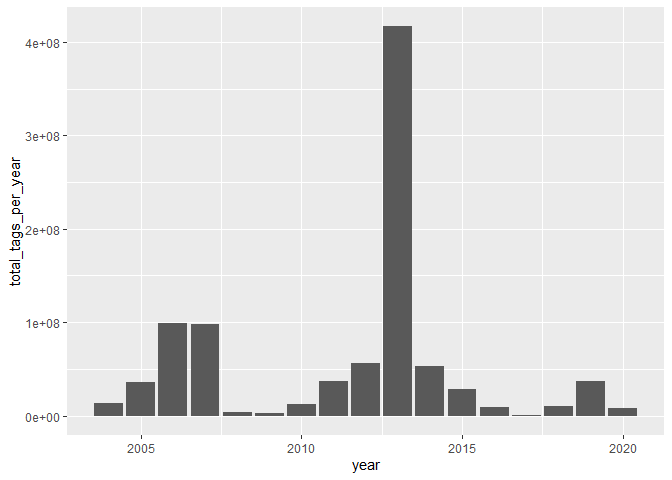
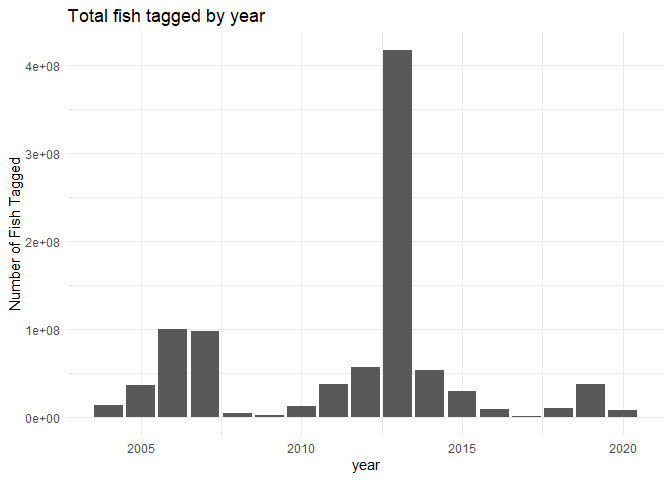
Edits hallpring plots

diff --git a/scripts/adult-upstream-passage-monitoring/feather-river/feather-hallprint.md b/scripts/adult-upstream-passage-monitoring/feather-river/feather-hallprint.md
@@ -18,13 +18,13 @@ are issues with the return data.
 
 **Season:** Tagging typically begins in April and goes through June
 
-**Completeness of Record throughout timeframe:**
+**Provisional or QC data** Data is QC
 
 **Sampling Location:** Some tags have a acoustic location attribute.
 
 **Data Contact:** [Byron Mache](mailto:Byron.Mache@water.ca.gov)
 
-Each fish is given two tags. The `second_tag_number` is na if the first
+Each fish is given two tags. The `second_tag_number` is NA if the first
 tag and the second tag have the same number.
 
 ## Access Cloud Data
@@ -70,8 +70,6 @@ raw_hallprint_data <- read_excel("raw_feather_hallprint_data.xlsx",
 ## Data transformations
 
 ``` r
-# TODO turn NA into second tag number 
-# For different excel sheets for each year read in and combine years here
 cleaner_hallprint_data <- raw_hallprint_data %>% 
   rename("date" = Date, "tag_number" = `Tag#`, "second_tag_number" = `2ndTag#`, 
          "color" = Color, "acoustic" = Acoustic, 
@@ -92,7 +90,7 @@ cleaner_hallprint_data <- raw_hallprint_data %>%
 
 ## Explore Numeric Variables:
 
-No numeric variables
+No numeric variables.
 
 ``` r
 # Filter clean data to show only numeric variables 
@@ -136,9 +134,9 @@ There are no NA values in `ID`.
 
 ### Variable: `tag_number`
 
-Are all the tags unique? No it looks like in more recent years they
-start to be unique and we have less NA values but there are 8 years
-where tags are not unique.
+Are all the tags unique? No. In more recent years tag numbera start to
+be unique and we have less NA values but there are 8 years where tags
+are not unique.
 
 ``` r
 cleaner_hallprint_data %>% 
@@ -171,35 +169,39 @@ cleaner_hallprint_data %>%
     ## 17  2020              2748        2748       0 TRUE
 
 ``` r
-# TODO visualize count by year 
 cleaner_hallprint_data %>% 
   group_by(year = year(date)) %>%
   mutate(total_tags_per_year = sum(!is.na(tag_number))) %>% 
   ungroup() %>% 
   ggplot(aes(x = year, y = total_tags_per_year)) +
-  geom_col()
+  geom_col() + 
+  theme_minimal() + 
+  labs(title = "Total fish tagged by year",
+       y = "Number of Fish Tagged")  
 ```
 
 ![](feather-hallprint_files/figure-gfm/unnamed-chunk-9-1.png)<!-- -->
 
-Numbers of fish tagged are not even over the period of record.
+More fish were tagged in 2013 than any other year. Numbers of fish
+tagged are not even over the period of record.
 
 ``` r
+# TODO Could also do a visual of when in the year this is happening (tags by month) - facet on year (some portion of years or average over years)
 cleaner_hallprint_data %>% 
   group_by(month = month(date)) %>%
-  mutate(total_tags_per_month = mean(sum(!is.na(tag_number)))) %>% 
+  mutate(total_tags_per_month = sum(!is.na(tag_number))) %>% 
   ungroup() %>% 
   ggplot(aes(x = month, y = total_tags_per_month)) +
-  geom_col()
+  geom_col() + 
+  facet_wrap(~year(date)) +  
+  theme_minimal() + 
+  labs(title = "Tags by month",
+       y = "Number of Fish Tagged")  
 ```
 
 ![](feather-hallprint_files/figure-gfm/unnamed-chunk-10-1.png)<!-- -->
 
-``` r
-# Could also do a visual of when in the year this is happening (tags by month) - facet on year (some portion of years or average over years)
-```
-
-It appears that most of the tagging occurs in May and June.
+Generally tagging occurs in May and June.
 
 **NA and Unknown Values**
 
@@ -249,6 +251,13 @@ cleaner_hallprint_data %>%
 **NA and Unknown Values** \* 0.516 % of values in the
 `second_tag_number` column are NA. Byron shared that if the `tag_number`
 equals the `second_tag_number` they leave `second_tag_number` as NA.
+
+``` r
+# Replace 2nd tag number with first tag number if second tag number is NA
+cleaner_hallprint_data$second_tag_number <- if_else(is.na(cleaner_hallprint_data$second_tag_number), 
+                                                    cleaner_hallprint_data$tag_number, 
+                                                    cleaner_hallprint_data$second_tag_number)
+```
 
 ### Variable: `color`
 
@@ -308,9 +317,8 @@ table(cleaner_hallprint_data$acoustic)
 
 **NA and Unknown Values**
 
--   0.997 % of values in the `acoustic` column are NA.
-
-### Variable: `acoustic_location`
+-   0.997 % of values in the `acoustic` column are NA. \#\#\# Variable:
+    `acoustic_location`
 
 ``` r
 table(cleaner_hallprint_data$acoustic_location) 
@@ -332,9 +340,24 @@ table(cleaner_hallprint_data$acoustic_location)
 
 -   0.997 % of values in the `acoustic_location` column are NA.
 
-**Summary of identified issues:** TODO fill in this section
+**Summary of identified issues:** \* One identified issue is that not
+all `tags_numbers` or `second_tag_numbers` are unique.
 
 ### Save cleaned data back to google cloud
+
+``` r
+cleaner_hallprint_data %>% glimpse()
+```
+
+    ## Rows: 98,935
+    ## Columns: 7
+    ## $ ID                <chr> "98802", "98803", "98804", "98805", "98806", "98807"~
+    ## $ date              <date> 2020-05-06, 2020-05-06, 2020-05-06, 2020-05-06, 202~
+    ## $ tag_number        <chr> "25703", "25704", "25705", "25707", "25708", "25709"~
+    ## $ second_tag_number <chr> "25703", "25704", "25705", "25707", "25708", "25709"~
+    ## $ color             <chr> "G", "G", "G", "G", "G", "G", "G", "G", "G", "G", "G~
+    ## $ acoustic          <lgl> NA, NA, NA, NA, NA, NA, NA, NA, NA, NA, NA, NA, NA, ~
+    ## $ acoustic_location <chr> NA, NA, NA, NA, NA, NA, NA, NA, NA, NA, NA, NA, NA, ~
 
 ``` r
 # Write to google cloud 
